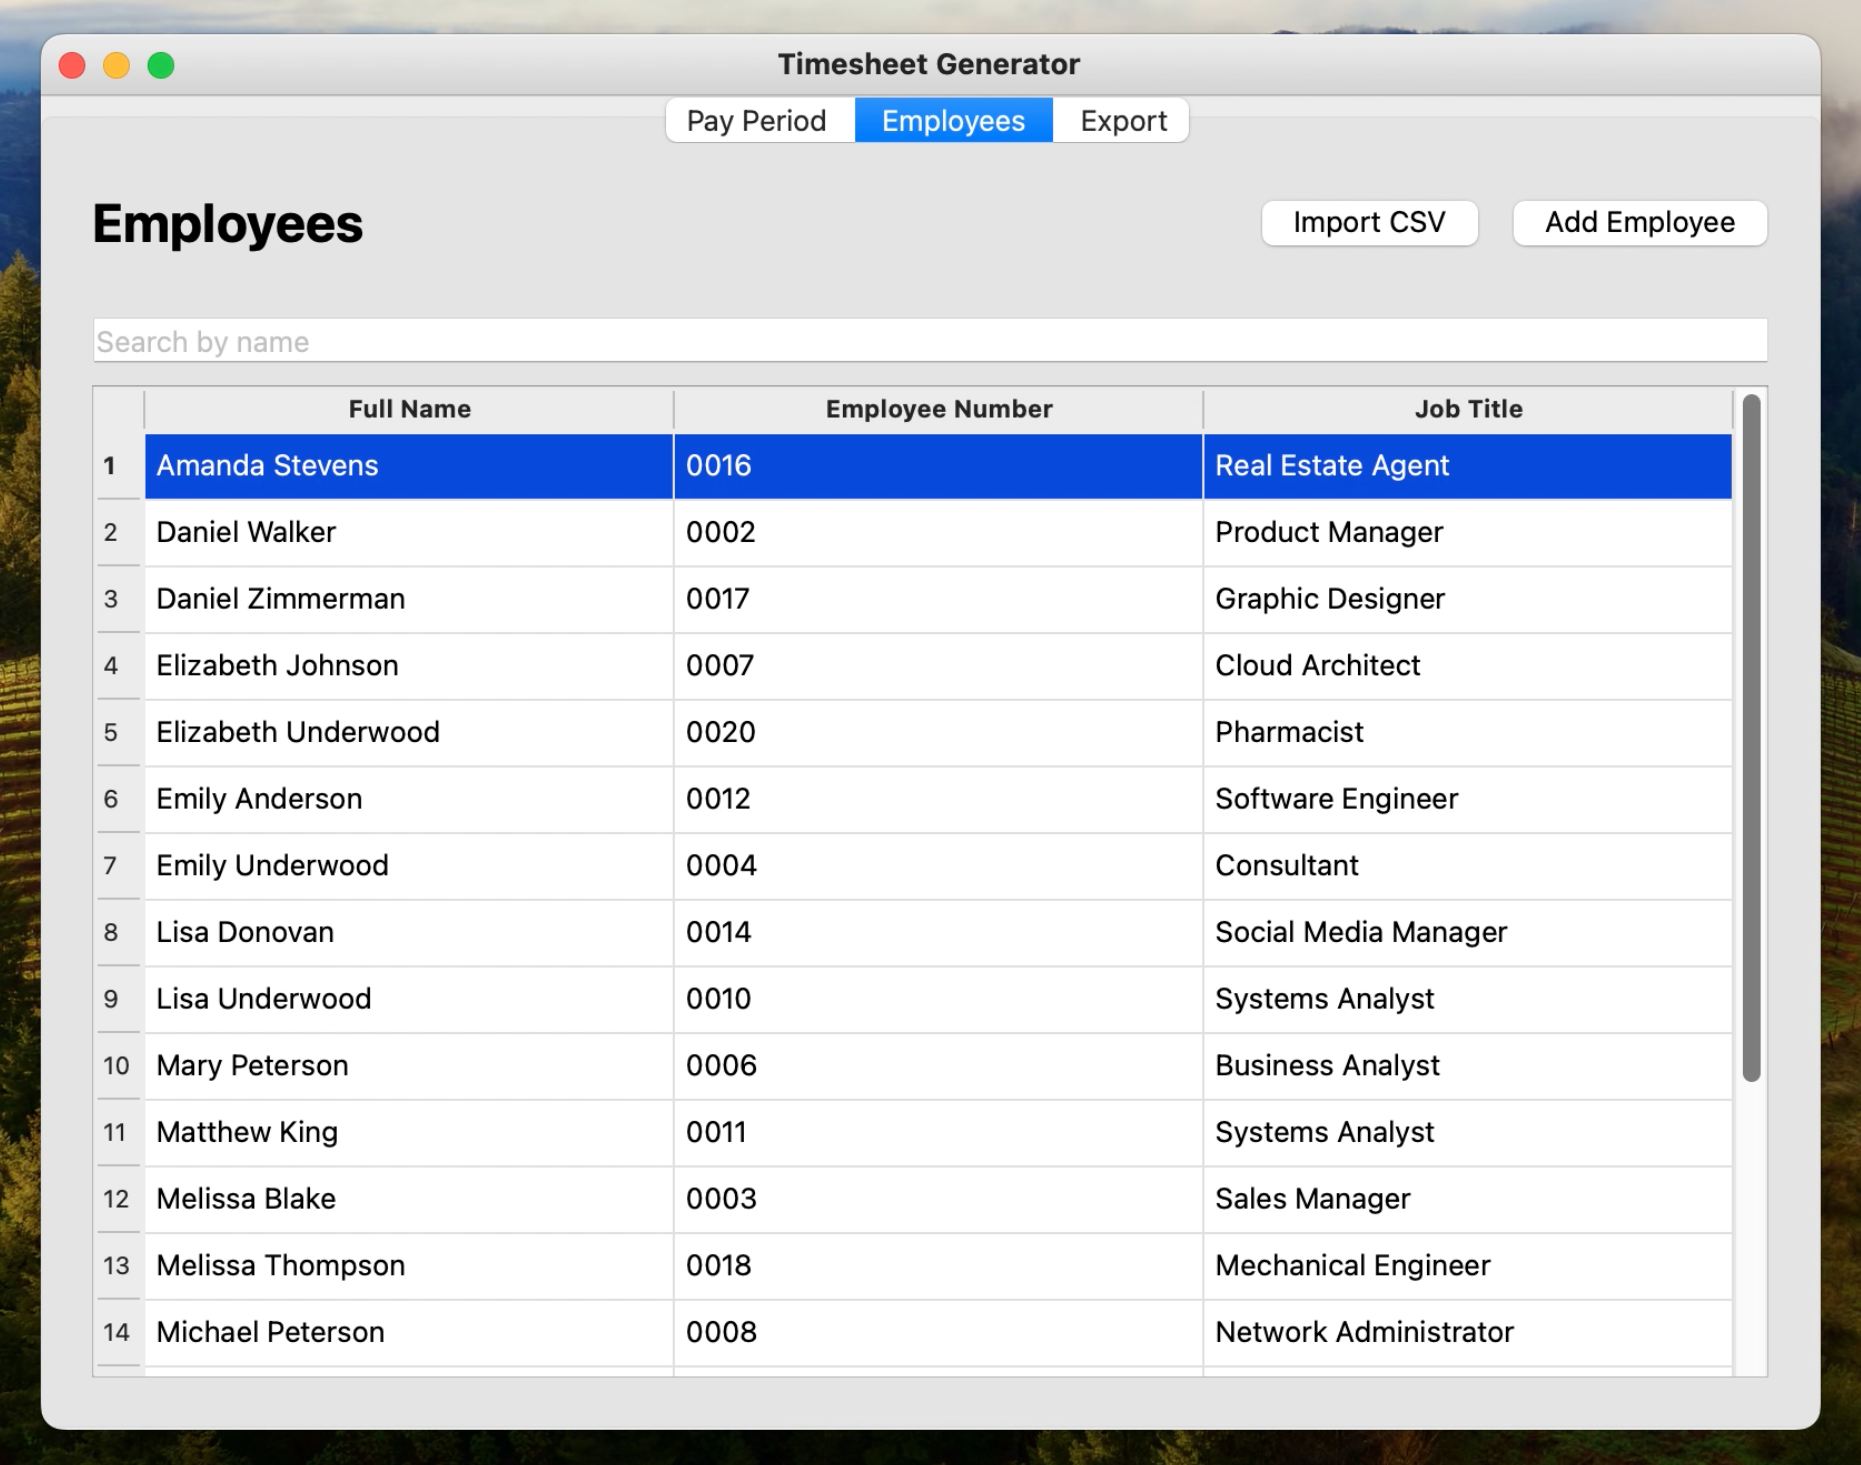
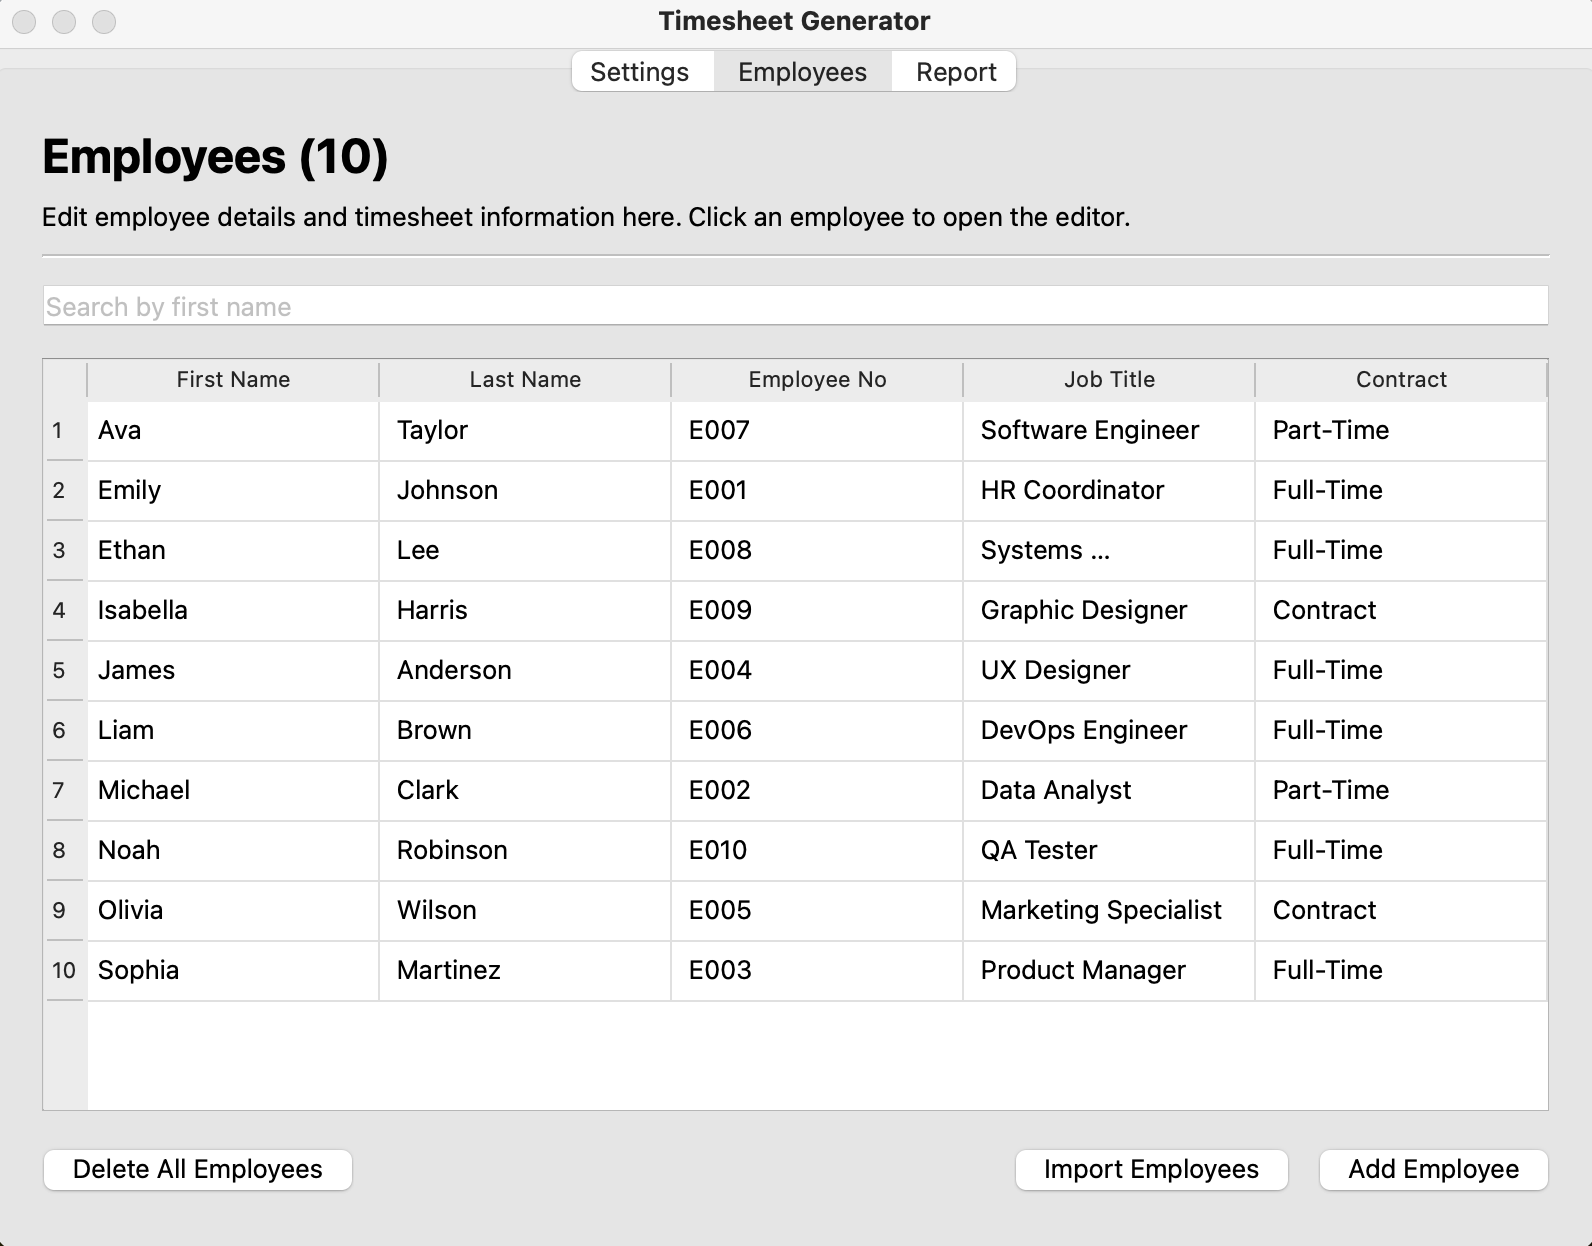
update photos to reflect new ui and readme

diff --git a/README.md b/README.md
@@ -1,41 +1,51 @@
-# Time Sheet Generator
+# Timesheet Generator
 
-A tool for logging employee hours and generating time sheet reports.
+A tool for logging employee hours and generating timesheet reports. (Features are developed as requested by client.)
+
 
 ## Supported features
 
-- Setting the start date for a new pay period. Applying a new date will dynamically update the values in the table. 
+- Update the pay period. This will delete all the current employee data.
 - View all employees in a table format. 
 - Search for an employee by name.
-- Edit employee details. 
-- Delete an employee. A warning message will pop up to confirm.
+- Edit employee details and timesheet information.
+- Delete an employee.
+- Delete all employees.
 - Add an employee.
 - Import employees from a .csv file.
 
-## Notable screens
 
-Please note the database included in this project contains fake data generated solely for the purpose of demonstration.
+## What's Left
 
-### Pay Period tab
+- `Report` Tab for generating and outputting the timesheet PDF.
 
-Set the start date for the pay period here.
 
-![](images/payperiod-screenshot.png)
+## Screens
 
-### Employees tab
+Employee details shown here are AI-generated.
 
-View the data here. Search for a specific employee using the search bar. Add a new employee via the 'Add Employee' button. Add many employees via the 'Import CSV' button. Edit an employee by clicking their entry in the table.
+
+### `Settings` Tab
+
+Update the pay period here and view the default timesheet values.
+
+![](images/settings-screenshot.png)
+
+
+### `Employees` Tab
+
+Edit employee details and timesheet information here. Click an employee to open the editor.
 
 ![](images/employees-screenshot.png)
 
-### 'Edit Employee' window
 
-Appears when an entry of the table is clicked. Can edit any of the fields here. To view another range of work days, select it via the dropdown menu.
+### `Edit Employee` Window
 
-![](images/editor-screenshot.png)
+![](images/employee-editor-screenshot.png)
 
-### 'Import Employees' window
 
-Import many employees at once by uploading a .csv file.
+### 'Import Employees' Window
 
-![](images/importer-screenshot.png)
+Import employees from a .csv file.
+
+![](images/employee-importer-screenshot.png)
